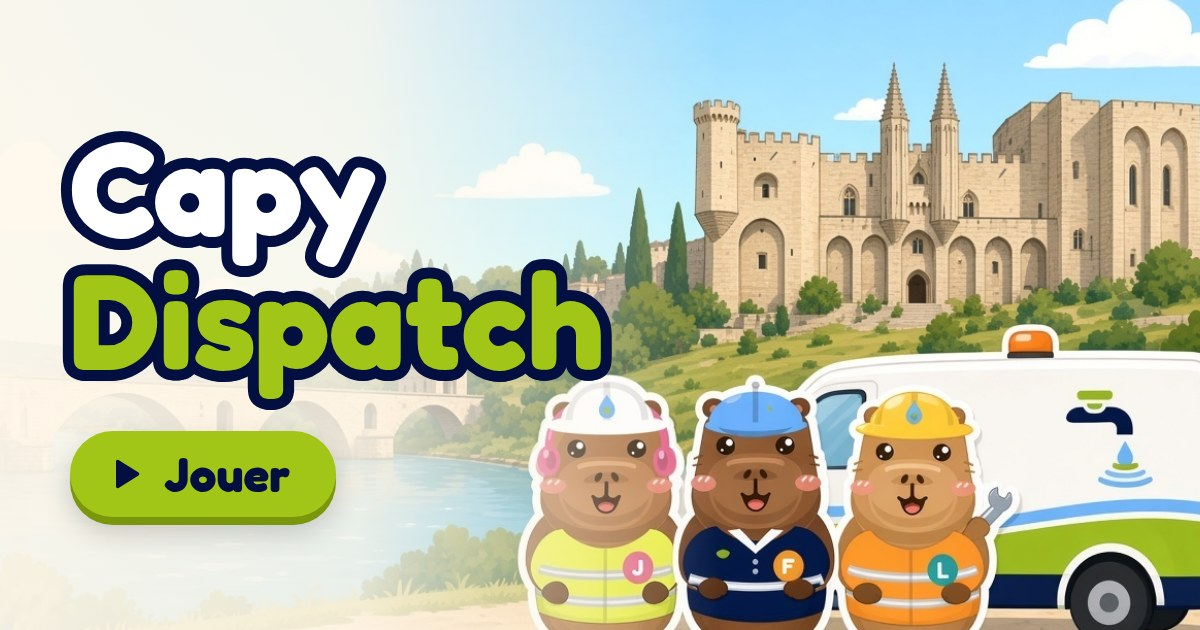
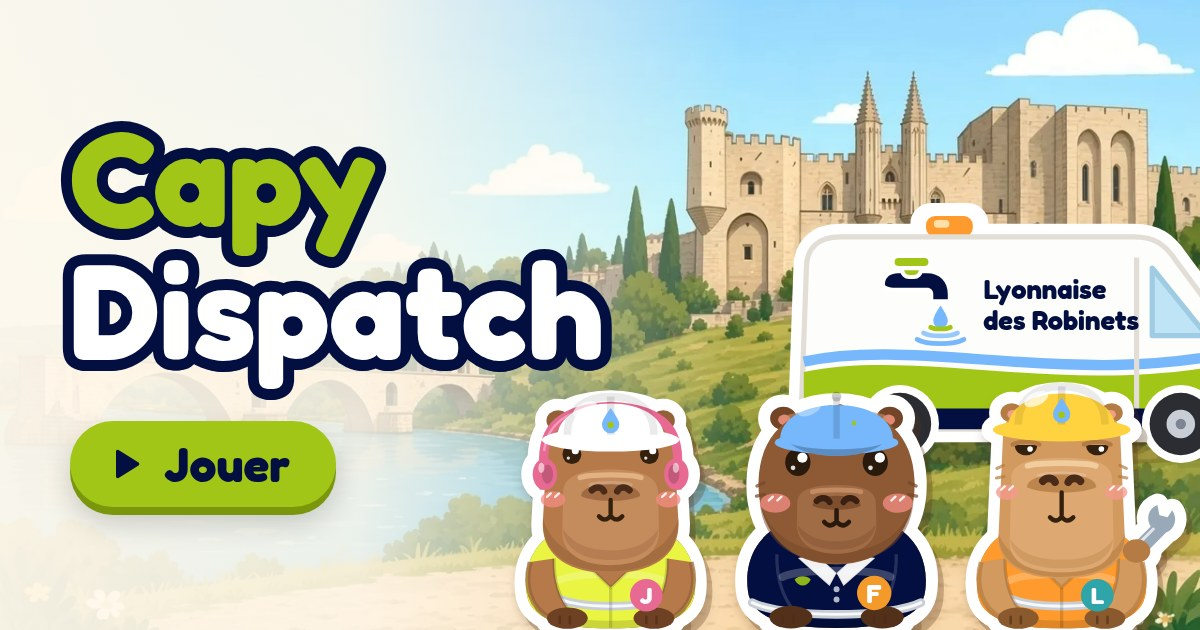
Finitions : Tournée du jour plus exigeante, écran sans scroll en 667×325, nouvelle og-image, épingles stables au pinch
- Tournée du jour : « rien qui traîne » et les plafonds de route lâches étaient des étoiles gratuites (rien n'est reporté
  d'hier). Ils sont remplacés par la barre du meilleur plan 3 ★ trouvé par le joueur de recherche sur la même matinée
  (N interventions bouclées, N h de route au maximum), rejouée avant d'être gardée. 30 dates : opt 2,60 / évident 1,93 / hasard 0,67.
- 667×325 et 844×340 : « Partager » remonte sur la ligne du titre du résultat, plus de scroll ; jours de la semaine ≥ 44 px.
- og-image : décor de l'accueil + fourgon + Josette, Fred, Lulu en SVG (scripts/icons.mjs).
- Carte : épingles et têtes de capys dans un calque SVG léger qui suit le pinch image par image (taille écran constante).
- e2e : test pinch, test Tournée du jour sans scroll, projet WebKit (npm run e2e:webkit).

diff --git a/src/mapview.ts b/src/mapview.ts
@@ -18,7 +18,7 @@ const iconIn = (k: string, s: number) => (ICONS[k] ?? '').replace('<svg ', `<svg
 const ringPath = () => { const r = MAP.ring; let d = `M${r[0]} ${r[1]}`; for (let i = 2; i < r.length; i += 2) d += `L${r[i]} ${r[i + 1]}`; return d + 'Z'; };
 
 export class MapView {
-  el: HTMLDivElement; svg: SVGSVGElement; private pins: SVGGElement; private routes: SVGGElement; private capys: SVGGElement; private labels: SVGGElement;
+  el: HTMLDivElement; svg: SVGSVGElement; private top: SVGSVGElement; private pins: SVGGElement; private routes: SVGGElement; private capys: SVGGElement; private labels: SVGGElement;
   vb: VB = { ...HOME }; onPin: (id: string) => void = () => {};
   private lastPins: Pin[] = []; private lastRoutes: Route[] = []; private capyPos: Record<string, [number, number]> = {};
   private pathCache = new Map<string, [number, number][]>();
@@ -53,12 +53,13 @@ export class MapView {
       <g class="towers"></g>
       <path d="${MAP.paths.palais}" fill="#F6C76E" stroke="#fff" stroke-width="7" stroke-linejoin="round" paint-order="stroke"/>
       <path d="${MAP.paths.pont}" fill="#E8C793" stroke="#fff" stroke-width="7" stroke-linejoin="round" paint-order="stroke"/>
-      <g class="dress"></g><g class="routes"></g><g class="labels"></g><g class="pins"></g><g class="capys"></g></svg>
+      <g class="dress"></g><g class="routes"></g><g class="labels"></g></svg>
+      <svg xmlns="${NS}" class="map-top" aria-hidden="false"><g class="pins"></g><g class="capys"></g></svg>
       <div class="map-ui"><button class="mbtn" data-z="in" aria-label="Zoomer">${glyph('plus')}</button><button class="mbtn" data-z="out" aria-label="Dézoomer">${glyph('minus')}</button><button class="mbtn" data-z="home" aria-label="Recentrer sur l’intra-muros">${glyph('target')}</button><button class="mbtn wide" data-z="wide" aria-label="Vue large : toute la ville jusqu’au dépôt"><span>Vue large</span></button></div>
       <a class="osm" href="https://www.openstreetmap.org/copyright" target="_blank" rel="noopener"><span class="osm-l">© les contributeurs d'OpenStreetMap</span><span class="osm-s">© OpenStreetMap</span></a>`;
     host.appendChild(this.el);
-    this.svg = this.el.querySelector('svg')!;
-    this.routes = this.svg.querySelector('.routes')!; this.pins = this.svg.querySelector('.pins')!; this.capys = this.svg.querySelector('.capys')!; this.labels = this.svg.querySelector('.labels')!;
+    this.svg = this.el.querySelector('svg')!; this.top = this.el.querySelector<SVGSVGElement>('.map-top')!;
+    this.routes = this.svg.querySelector('.routes')!; this.pins = this.top.querySelector('.pins')!; this.capys = this.top.querySelector('.capys')!; this.labels = this.svg.querySelector('.labels')!;
     this.el.querySelectorAll<HTMLButtonElement>('.mbtn').forEach((b) => b.addEventListener('click', () => { const z = b.dataset.z; if (z === 'home') this.setVB({ ...HOME }); else if (z === 'wide') this.setVB({ ...WIDE }); else this.zoom(z === 'in' ? 0.7 : 1 / 0.7); }));
     this.towers(); this.gestures(); this.applyVB();
     new ResizeObserver((es) => { const r = es[0].contentRect; this.W = r.width; this.H = r.height; this.drawnK = 0; this.applyVB(); }).observe(this.el);
@@ -67,6 +68,8 @@ export class MapView {
   // gesture is shown as a compositor-only CSS transform of the <svg> (one per frame, coalesced in rAF); the real
   // viewBox is committed when the finger lifts or pauses. Overlays (pins, labels, routes, capys) are only rebuilt
   // when the zoom (k) actually changed, and sizes come from the ResizeObserver, never from layout reads mid-gesture.
+  // Pins and capy heads live in a light overlay <svg> that follows the pending viewBox every frame and only re-scales
+  // its own few elements, so they keep their screen size during a pinch instead of growing with the map.
   private W = 0; private H = 0; private cv: VB = { ...HOME }; private drawnK = 0; private raf = 0; private idle = 0;
   /** px of SVG user units per screen pixel */
   private k(v: VB = this.vb) { if (!this.W) { const r = this.el.getBoundingClientRect(); this.W = r.width; this.H = r.height; } return this.W ? Math.max(v.w / this.W, v.h / this.H) : 4; }
@@ -77,9 +80,13 @@ export class MapView {
     if (this.raf) return; this.raf = requestAnimationFrame(() => { this.raf = 0; const c = this.cv, p = this.vb, kc = this.k(c), kp = this.k(p); const a = kc / kp;
       const oc = [(this.W - c.w / kc) / 2, (this.H - c.h / kc) / 2], op = [(this.W - p.w / kp) / 2, (this.H - p.h / kp) / 2];
       const bx = (c.x - p.x) / kp + op[0] - a * oc[0], by = (c.y - p.y) / kp + op[1] - a * oc[1];
-      this.svg.style.transform = `translate(${bx.toFixed(1)}px,${by.toFixed(1)}px) scale(${a.toFixed(4)})`; }); }
+      this.svg.style.transform = `translate(${bx.toFixed(1)}px,${by.toFixed(1)}px) scale(${a.toFixed(4)})`; this.topVB(); }); }
+  /** The overlay shows the pending viewBox itself; on a zoom its pins and capys are re-scaled in place (no rebuild). */
+  private topK = 0;
+  private topVB() { const v = this.vb; this.top.setAttribute('viewBox', `${v.x} ${v.y} ${v.w} ${v.h}`); const k = this.k(v); if (Math.abs(k - this.topK) <= k * 1e-3) return; this.topK = k;
+    this.pins.querySelectorAll<SVGGElement>('[data-pin]').forEach((e) => e.setAttribute('transform', `translate(${e.dataset.x} ${e.dataset.y}) scale(${Number(e.dataset.s) * k})`)); this.drawCapys(); }
   private applyVB() { clearTimeout(this.idle); if (this.raf) { cancelAnimationFrame(this.raf); this.raf = 0; } const v = this.vb; this.cv = { ...v };
-    this.svg.setAttribute('viewBox', `${v.x} ${v.y} ${v.w} ${v.h}`); this.svg.style.transform = '';
+    this.svg.setAttribute('viewBox', `${v.x} ${v.y} ${v.w} ${v.h}`); this.svg.style.transform = ''; this.topVB();
     const k = this.k(); if (Math.abs(k - this.drawnK) <= k * 1e-3) return; this.drawnK = k; // a pure pan: overlays are in map units, nothing to rebuild
     this.drawPins(this.lastPins); this.drawRoutes(this.lastRoutes); this.drawLabels(); this.drawCapys(); }
   zoom(f: number, cx = this.vb.x + this.vb.w / 2, cy = this.vb.y + this.vb.h / 2, live = false) { const w = this.vb.w * f, h = this.vb.h * f; this.setVB({ x: cx - (cx - this.vb.x) * f, y: cy - (cy - this.vb.y) * f, w, h }, live); }
@@ -91,8 +98,8 @@ export class MapView {
   private toUser(cx: number, cy: number) { const r = this.box ?? this.el.getBoundingClientRect(); const k = this.k(); const ox = (r.width * k - this.vb.w) / 2, oy = (r.height * k - this.vb.h) / 2; return [this.vb.x - ox + (cx - r.left) * k, this.vb.y - oy + (cy - r.top) * k]; }
   private gestures() {
     const pts = new Map<number, { x: number; y: number }>(); let moved = false; let start: { vb: VB; d: number; mx: number; my: number } | null = null;
-    const s = this.svg;
-    s.addEventListener('pointerdown', (e) => { if (!pts.size) this.box = this.el.getBoundingClientRect(); pts.set(e.pointerId, { x: e.clientX, y: e.clientY }); moved = false; start = null; });
+    const s = this.el; const ui = (e: Event) => !!(e.target as Element).closest?.('.map-ui, .osm');
+    s.addEventListener('pointerdown', (e) => { if (ui(e)) return; if (!pts.size) this.box = this.el.getBoundingClientRect(); pts.set(e.pointerId, { x: e.clientX, y: e.clientY }); moved = false; start = null; });
     s.addEventListener('pointermove', (e) => {
       const p = pts.get(e.pointerId); if (!p) return; const k = this.k();
       if (pts.size === 1) { const dx = e.clientX - p.x, dy = e.clientY - p.y; if (!moved && Math.hypot(dx, dy) < 7) return; if (!moved) { moved = true; s.setPointerCapture(e.pointerId); }
@@ -125,9 +132,9 @@ export class MapView {
       return `${st}${dot}<text x="${l.x}" y="${l.y + (lm ? 1 * k : 0)}" font-size="${9.5 * k}" text-anchor="middle" class="mlabel${lm ? ' big' : ''}${l.k === 'quartier' ? ' q' : ''}${l.k === 'prefecture' ? ' pf' : ''}${near(l.x, l.y) ? ' dim' : ''}" stroke-width="${3 * k}">${escT(l.t)}</text>`; }).join('')
       + `<g transform="translate(${DX} ${DY}) scale(${k})">${vanSvg('fourgon').replace('<svg ', '<svg x="-26" y="-22" width="52" height="29" ')}<rect x="-24" y="8" width="48" height="16" rx="8" fill="#030F40" stroke="#fff" stroke-width="2.5"/><text x="0" y="20.5" font-size="12" text-anchor="middle" fill="#fff" class="dep">Dépôt</text></g>`; }
   setPins(p: Pin[]) { this.lastPins = p; this.drawPins(p); this.drawLabels(); }
-  private drawPins(list: Pin[]) { const k = this.k(this.cv);
-    this.pins.innerHTML = [...list].sort((a, b) => Number(a.selected) - Number(b.selected)).map((p) => { const s = SITES[p.site]; const sc = (p.selected ? 1.35 : 1) * k;
-      return `<g data-pin="${p.id}" class="pin ${p.state}${p.selected ? ' sel' : ''}${p.urgent ? ' urg' : ''}" transform="translate(${s.x} ${s.y}) scale(${sc})">
+  private drawPins(list: Pin[]) { const k = this.k(this.vb); this.topK = k;
+    this.pins.innerHTML = [...list].sort((a, b) => Number(a.selected) - Number(b.selected)).map((p) => { const s = SITES[p.site]; const f = p.selected ? 1.35 : 1; const sc = f * k;
+      return `<g data-pin="${p.id}" data-x="${s.x}" data-y="${s.y}" data-s="${f}" class="pin ${p.state}${p.selected ? ' sel' : ''}${p.urgent ? ' urg' : ''}" transform="translate(${s.x} ${s.y}) scale(${sc})">
         ${p.urgent && p.state !== 'done' ? '<circle r="15" class="pulse"/>' : ''}<circle r="22" fill="transparent"/>
         <path d="M0 16 L-7 6 A12 12 0 1 1 7 6 Z" transform="translate(0 -14)" fill="${p.state === 'done' ? '#BFD9B0' : p.color}" stroke="#fff" stroke-width="3" stroke-linejoin="round"/>
         <g transform="translate(0 -16)">${p.state === 'done' ? '<path d="M-5 0 L-1.5 4 L5.5 -4" stroke="#fff" stroke-width="3" fill="none" stroke-linecap="round"/>' : iconIn(p.icon, 15)}</g>
@@ -169,7 +176,7 @@ export class MapView {
     g.innerHTML = h; }
   private capyEls = new Map<string, SVGGElement>();
   /** Capy heads are built once; a frame of a drive only moves a transform (no innerHTML, no re-parse of the head SVG). */
-  private drawCapys() { const k = this.k(this.cv); const seen = new Map<string, number>();
+  private drawCapys() { const k = this.k(this.vb); const seen = new Map<string, number>();
     for (const [id, [x, y]] of Object.entries(this.capyPos)) { const key = Math.round(x / 12) + ':' + Math.round(y / 12); const n = seen.get(key) ?? 0; seen.set(key, n + 1);
       let el = this.capyEls.get(id); if (!el) { el = document.createElementNS(NS, 'g'); el.setAttribute('class', 'mcapy');
         el.innerHTML = `<circle r="15" fill="#fff" opacity=".85"/>${who(id as CapyId).replace('<svg ', '<svg x="-15" y="-15" width="30" height="30" ')}<g class="mvan">${ICONS.van.replace('<svg ', '<svg x="4" y="2" width="22" height="22" ')}</g>`;

diff --git a/e2e/game.spec.ts b/e2e/game.spec.ts
@@ -1,5 +1,5 @@
 import { test, expect, type Page } from '@playwright/test';
-import { withPlayer, errors } from './helpers';
+import { withPlayer, errors, settle } from './helpers';
 
 test.beforeEach(async ({ page }) => { await withPlayer(page); });
 async function start(page: Page) { await page.goto('./'); await page.click('#h-new'); await expect(page.locator('#b-go')).toBeVisible(); await page.click('#b-go'); }
@@ -125,13 +125,21 @@ test('polish: pressed look on tap, Vibrations setting saved, map drag commits th
   await page.locator('label.tg', { hasText: 'Vibrations' }).click(); await expect(page.locator('#s-hap')).not.toBeChecked();
   expect(await page.evaluate(() => JSON.parse(localStorage.getItem('capy-dispatch-v1')!).settings.haptics)).toBe(false); await page.click('#s-ok');
   if (!(await page.locator('.map-svg').isVisible())) await page.click('#t-map');
-  const m = await page.evaluate(async () => { const s = document.querySelector('.map-svg') as SVGSVGElement; const r = s.getBoundingClientRect(); const x = r.left + r.width / 2, y = r.top + r.height / 2; const vb0 = s.getAttribute('viewBox'); const pins0 = s.querySelector('.pins')!.firstElementChild;
+  await settle(page); await page.waitForTimeout(200); // the drawer has stopped resizing the map (a resize commits the view)
+  const m = await page.evaluate(async () => { const s = document.querySelector('.map-svg') as SVGSVGElement; const r = s.getBoundingClientRect(); const x = r.left + r.width / 2, y = r.top + r.height / 2; const vb0 = s.getAttribute('viewBox'); const pins0 = document.querySelector('.map-top .pins')!.firstElementChild;
     const ev = (t: string, dx: number) => s.dispatchEvent(new PointerEvent(t, { pointerId: 1, clientX: x - dx, clientY: y, bubbles: true, isPrimary: true }));
-    ev('pointerdown', 0); for (let i = 1; i <= 6; i++) { ev('pointermove', i * 10); await new Promise((f) => requestAnimationFrame(f)); }
-    const mid = { vb: s.getAttribute('viewBox'), tf: s.style.transform, samePins: s.querySelector('.pins')!.firstElementChild === pins0 }; ev('pointerup', 60); await new Promise((f) => requestAnimationFrame(f));
-    return { vb0, mid, vb1: s.getAttribute('viewBox'), tf1: s.style.transform, samePins: s.querySelector('.pins')!.firstElementChild === pins0 }; });
+    ev('pointerdown', 0); for (let i = 1; i <= 6; i++) ev('pointermove', i * 10); await new Promise((f) => requestAnimationFrame(f)); // one frame (a slow frame > 140 ms would count as a finger pause and commit)
+    const mid = { vb: s.getAttribute('viewBox'), tf: s.style.transform, samePins: document.querySelector('.map-top .pins')!.firstElementChild === pins0 }; ev('pointerup', 60); await new Promise((f) => requestAnimationFrame(f));
+    return { vb0, mid, vb1: s.getAttribute('viewBox'), tf1: s.style.transform, samePins: document.querySelector('.map-top .pins')!.firstElementChild === pins0 }; });
   expect(m.mid.vb).toBe(m.vb0); expect(m.mid.tf).toContain('translate(-'); expect(m.mid.samePins).toBe(true);
   expect(m.vb1).not.toBe(m.vb0); expect(m.tf1).toBe(''); expect(m.samePins).toBe(true); // a pan keeps the pins (map units), only the viewBox moved
+  // a pinch: the map grows under the fingers, the pins keep their size on screen (they used to swell until the fingers lifted)
+  const z = await page.evaluate(async () => { const s = document.querySelector('.map-svg') as SVGSVGElement; const r = s.getBoundingClientRect(); const x = r.left + r.width / 2, y = r.top + r.height / 2;
+    const pin = () => (document.querySelector('.map-top [data-pin] path') as SVGPathElement).getBoundingClientRect().width; const w0 = pin(); const raf = () => new Promise((f) => requestAnimationFrame(f));
+    const ev = (t: string, id: number, dx: number) => s.dispatchEvent(new PointerEvent(t, { pointerId: id, clientX: x + dx, clientY: y, bubbles: true, isPrimary: id === 1 }));
+    ev('pointerdown', 1, -40); ev('pointerdown', 2, 40); for (let i = 1; i <= 6; i++) { ev('pointermove', 1, -40 - i * 12); ev('pointermove', 2, 40 + i * 12); await raf(); }
+    const mid = { w: pin(), tf: s.style.transform }; ev('pointerup', 1, -112); ev('pointerup', 2, 112); await raf(); return { w0, mid, w1: pin() }; });
+  expect(z.mid.tf).toContain('scale('); expect(Math.abs(z.mid.w - z.w0)).toBeLessThan(z.w0 * 0.05); expect(Math.abs(z.w1 - z.w0)).toBeLessThan(z.w0 * 0.05);
   expect(e).toEqual([]);
 });
 

diff --git a/src/daily.ts b/src/daily.ts
@@ -2,9 +2,10 @@
 // One ranked attempt (the first one started), then free tries. A missed day stays playable 7 days. No streaks:
 // an empty day is just empty. The result is shared as spoiler-free text (stars, yield, water, driving, each capy's load).
 import { newGame, startDay, yieldWhy, type Game } from './game';
-import { TEAM } from './content';
+import { TEAM, type DaySpec, type Obj } from './content';
 import { SLOTS } from './rules';
 import { stats } from './gen';
+import { tryDay } from './hindsight';
 
 export const DAILY_KEY = 'capy-dispatch-v1-daily';
 export const WINDOW = 7;
@@ -33,10 +34,30 @@ export const WINKS: Record<string, string> = {
   '07-14': '14 Juillet : feu d’artifice sur le Rhône ce soir. D’ici là, on boucle les tickets.',
 };
 /** The day's game, fresh and briefed (generated and proven 3 ★ from this very morning). */
+const fresh = (k: string) => { const g = newGame(seedOf(k)); g.gen = true; g.daily = k; g.day = BASE_DAYS[seedOf(k) % BASE_DAYS.length]; return g; };
+/** In a one-day tournée nothing is carried from yesterday and the drive limits of a fortnight are loose, so « rien qui traîne »
+ *  and « N h de route » were free stars. They are replaced by the bar of the best 3 ★ plan the search player found on this
+ *  very morning (most jobs done, then least driving; the same 48 tries as the « Et si… » replay): « N interventions bouclées » and « N h de route au maximum ».
+ *  The reference try is replayed against the new bar (it is deterministic) before the day keeps it. */
+export function harden(k: string, spec: DaySpec): DaySpec {
+  if (!spec.objs.some((o) => o.id === 'backlog' || o.id === 'travel')) return spec;
+  const run = (sp: DaySpec, i: number) => { const g0 = fresh(k); g0.specs = { [g0.day]: sp }; startDay(g0);
+    return tryDay(g0, g0.seed * 7919 + g0.day * 104729 + i * 31 + 5, i < 3 ? 0 : Math.min(1, (i / 48) * 1.5), i < 3 ? 0.15 * i : 0.35, i < 6 ? 0 : (i % 5) * 0.06, 1, false); };
+  let ref: Game | null = null; let ri = -1; let rs = -Infinity;
+  for (let i = 0; i < 48; i++) { const d = run(spec, i).today!; if (d.stars !== 3) continue; const s = d.done.length * 10 - d.travel; if (s > rs) { rs = s; ri = i; ref = run(spec, i); } }
+  if (!ref) return spec; const d = ref.today!;
+  const bar = (id: 'done' | 'travel'): Obj => (id === 'done' ? { id, n: d.done.length } : { id, n: d.travel });
+  const ids = spec.objs.map((o) => o.id); const objs: Obj[] = [];
+  for (const o of spec.objs) { const id = o.id === 'travel' ? 'travel' : o.id === 'backlog' ? (ids.includes('done') ? 'travel' : 'done') : null;
+    if (!id) objs.push(o); else if (!objs.some((p) => p.id === id) && !(o.id === 'backlog' && id === 'travel' && ids.includes('travel'))) objs.push(bar(id)); }
+  if (objs.length < spec.objs.length) return spec;
+  const out = { ...spec, objs }; return run(out, ri).today!.stars === 3 ? out : spec;
+}
 export function dailyGame(k: string): { g: Game; proven: boolean } {
-  const g = newGame(seedOf(k)); g.gen = true; g.daily = k; g.day = BASE_DAYS[seedOf(k) % BASE_DAYS.length]; const f0 = stats.fallback; startDay(g);
-  const w = WINKS[k.slice(5)]; if (w && g.specs?.[g.day]) g.specs[g.day].chef = w;
-  return { g, proven: stats.fallback === f0 };
+  const g0 = fresh(k); const f0 = stats.fallback; startDay(g0); const proven = stats.fallback === f0;
+  const spec = harden(k, g0.specs![g0.day]); const g = fresh(k); g.specs = { [g.day]: spec }; startDay(g);
+  const w = WINKS[k.slice(5)]; if (w) spec.chef = w;
+  return { g, proven };
 }
 export function result(g: Game): DailyRes {
   const d = g.today!; const yw = yieldWhy(g);

diff --git a/e2e/ux.spec.ts b/e2e/ux.spec.ts
@@ -53,7 +53,7 @@ test('the character is editable later from the settings, and the save migrates o
 
 for (const [w, h] of [[844, 390], [667, 375], [932, 430], [667, 325], [844, 340]]) {
   test(`touch targets ≥ 44 px and no overlapping layout at ${w}×${h}`, async ({ page }) => {
-    test.skip(test.info().project.name !== 'mobile-landscape', 'phone sizes only');
+    test.skip(!test.info().project.name.endsWith('landscape'), 'phone sizes only');
     await page.setViewportSize({ width: w, height: h });
     await page.goto('./'); await page.evaluate(() => document.fonts.ready);
     expect(await smallTargets(page), 'creator').toEqual([]); expect(await tinyText(page), 'creator').toEqual([]); expect(await overlaps(page, ['.cr-prev', '.cr-form']), 'creator').toEqual([]);
@@ -80,3 +80,16 @@ for (const [w, h] of [[844, 390], [667, 375], [932, 430], [667, 325], [844, 340]
     expect(await tinyText(page), 'settings text').toEqual([]);
   });
 }
+
+test('Tournée du jour fits a short phone without scrolling, even with yesterday’s result card', async ({ page }) => {
+  test.skip(!test.info().project.name.endsWith('landscape'), 'phone sizes only');
+  await page.addInitScript(() => { const y = new Date(Date.now() - 864e5); const k = `${y.getFullYear()}-${String(y.getMonth() + 1).padStart(2, '0')}-${String(y.getDate()).padStart(2, '0')}`;
+    localStorage.setItem('capy-dispatch-v1', JSON.stringify({ player: { name: 'Camille', sex: 'femme', look: { fur: 'noisette', acc: 'lavande', outfit: 'veste' } } }));
+    localStorage.setItem('capy-dispatch-v1-daily', JSON.stringify({ v: 1, res: { [k]: { stars: 2, met: [true, true, false], dy: 0.8, m3: 120, travel: 4, load: [1, 0.8, 0.6], tries: 2, best: 3 } }, cur: null })); });
+  for (const [w, h] of [[667, 325], [844, 340], [667, 375], [844, 390]]) {
+    await page.setViewportSize({ width: w, height: h }); await page.goto('./'); await page.evaluate(() => document.fonts.ready); await page.click('#h-daily');
+    await expect(page.locator('#d-share')).toBeVisible();
+    const m = await page.locator('.daily').evaluate((d) => ({ sh: d.scrollHeight, ch: d.clientHeight }));
+    expect(m.sh, `${w}×${h}`).toBeLessThanOrEqual(m.ch + 1); expect(await smallTargets(page), `${w}×${h}`).toEqual([]);
+  }
+});

diff --git a/src/style.css b/src/style.css
@@ -118,6 +118,7 @@ a{color:var(--ldr-blue-d)}
 .mapbox{position:relative;width:37%;min-width:0;border-right:3px solid #fff}
 .map{position:absolute;inset:0;overflow:hidden;background:#E4F0D6}
 .map-svg{width:100%;height:100%;display:block;touch-action:none;cursor:grab}
+.map-top{position:absolute;inset:0;width:100%;height:100%;pointer-events:none;touch-action:none}.map-top .pin{pointer-events:auto}
 .map-ui{position:absolute;right:6px;top:6px;display:flex;flex-direction:column;gap:6px}
 .mbtn{width:var(--hit);height:var(--hit);display:grid;place-items:center;border:0;border-radius:var(--r-m);background:#fffffff0;box-shadow:0 3px 0 #0000001f;cursor:pointer;color:var(--ldr-navy)}
 .osm{position:absolute;left:4px;bottom:3px;font-size:var(--fs-xs);background:#fffd;padding:1px 6px;border-radius:6px;color:var(--ink);text-decoration:none}
@@ -575,3 +576,7 @@ button.stickers{border:0;font:inherit;color:inherit;text-align:left;cursor:point
 .d-res .btns{justify-content:flex-start;margin-top:0}.d-share{white-space:pre;overflow-x:auto}
 @media (max-width:700px){.d-share{font-size:10px}}
 @media (max-height:340px){.d-chef{display:none}.d-tabs .btn{min-height:var(--hit)}.d-objs{gap:1px}.daily{gap:5px;padding-top:6px;padding-bottom:6px}}
+/* short landscape phones: « Partager » sits on the title line of the result card, the share text gets a tighter leading (no scroll at 667×325) */
+@media (max-height:400px){.d-res{display:grid;grid-template-columns:1fr auto;column-gap:8px;align-items:center}.d-res h3{grid-area:1/1;margin:0}.d-res .btns{grid-area:1/2}.d-res .d-share{grid-area:2/1/3/3;margin:4px 0 0;line-height:1.2}.d-res .btns .btn{min-height:var(--hit)}}
+@media (max-height:340px){.d-share{line-height:1.12}.d-week p{display:none}}
+.d-day{position:relative}.d-day::after{content:'';position:absolute;left:-3px;right:-3px;top:0;bottom:0} /* 7 days in a narrow column: the tap area spans the gaps (≥ 44 px) */

diff --git a/tests/daily.test.ts b/tests/daily.test.ts
@@ -21,6 +21,9 @@ describe('Tournée du jour', () => {
       let ok = false; for (let i = 0; i < 48 && !ok; i++) ok = tryDay(r.g, r.g.seed * 7919 + r.g.day * 104729 + i * 31 + 5, i < 3 ? 0 : Math.min(1, (i / 48) * 1.5), i < 3 ? 0.15 * i : 0.35, i < 6 ? 0 : (i % 5) * 0.06, 1, false).today!.stars === 3;
       expect(ok, r.k).toBe(true); }
     expect(mean(stars.random)).toBeLessThan(mean(stars.obvious)); expect(mean(stars.obvious)).toBeLessThan(mean(stars.opt));
+    // no free star in a one-day tournée: nothing is carried from yesterday, so « rien qui traîne » never shows up, and the obvious play stays well short of 3 ★
+    for (const r of runs) expect(r.g.specs![r.g.day].objs.some((o) => o.id === 'backlog'), r.k).toBe(false);
+    expect(mean(stars.obvious)).toBeLessThanOrEqual(2.3); expect(mean(stars.opt) - mean(stars.obvious)).toBeGreaterThanOrEqual(0.4);
     (globalThis as { __daily?: unknown }).__daily = { opt: mean(stars.opt), obvious: mean(stars.obvious), random: mean(stars.random) };
   });
   it('one ranked attempt, then free tries; 7 days to catch up; no streak anywhere', () => {

diff --git a/e2e/helpers.ts b/e2e/helpers.ts
@@ -9,7 +9,7 @@ export const settle = (page: Page) => page.evaluate(() => Promise.all(document.g
 export const smallTargets = async (page: Page) => { await settle(page); return page.evaluate(() => {
   const out: string[] = [];
   for (const el of document.querySelectorAll<HTMLElement>('button, input, [role=radio], [role=switch], a, summary, .mbtn')) {
-    if (el.matches('.osm')) continue; // OSM attribution link: legal credit, also reachable from Crédits
+    if (el.matches('.osm') || el.closest('[aria-hidden="true"]')) continue; // aria-hidden: the off-screen iOS haptic switch (feel.ts) // OSM attribution link: legal credit, also reachable from Crédits
     const r = el.getBoundingClientRect(); const cs = getComputedStyle(el);
     if (!r.width || !r.height || cs.visibility === 'hidden' || el.closest('[hidden], .view:not(.active)') || (el.closest('.ov') && !el.closest('.ov.show'))) continue;
     let w = r.width, h = r.height; const a = getComputedStyle(el, '::after');

diff --git a/playwright.config.ts b/playwright.config.ts
@@ -7,5 +7,7 @@ export default defineConfig({
   projects: [
     { name: 'mobile-landscape', use: { viewport: { width: 844, height: 390 }, isMobile: true, hasTouch: true, deviceScaleFactor: 3 } },
     { name: 'desktop', use: { viewport: { width: 1440, height: 900 } } },
+    // Safari engine (iPhone): `npm run e2e:webkit` (needs `npx playwright install webkit`)
+    ...(process.env.E2E_WEBKIT ? [{ name: 'webkit-landscape', use: { browserName: 'webkit' as const, launchOptions: {}, viewport: { width: 844, height: 390 }, isMobile: true, hasTouch: true, deviceScaleFactor: 3 } }] : []),
   ],
 });
